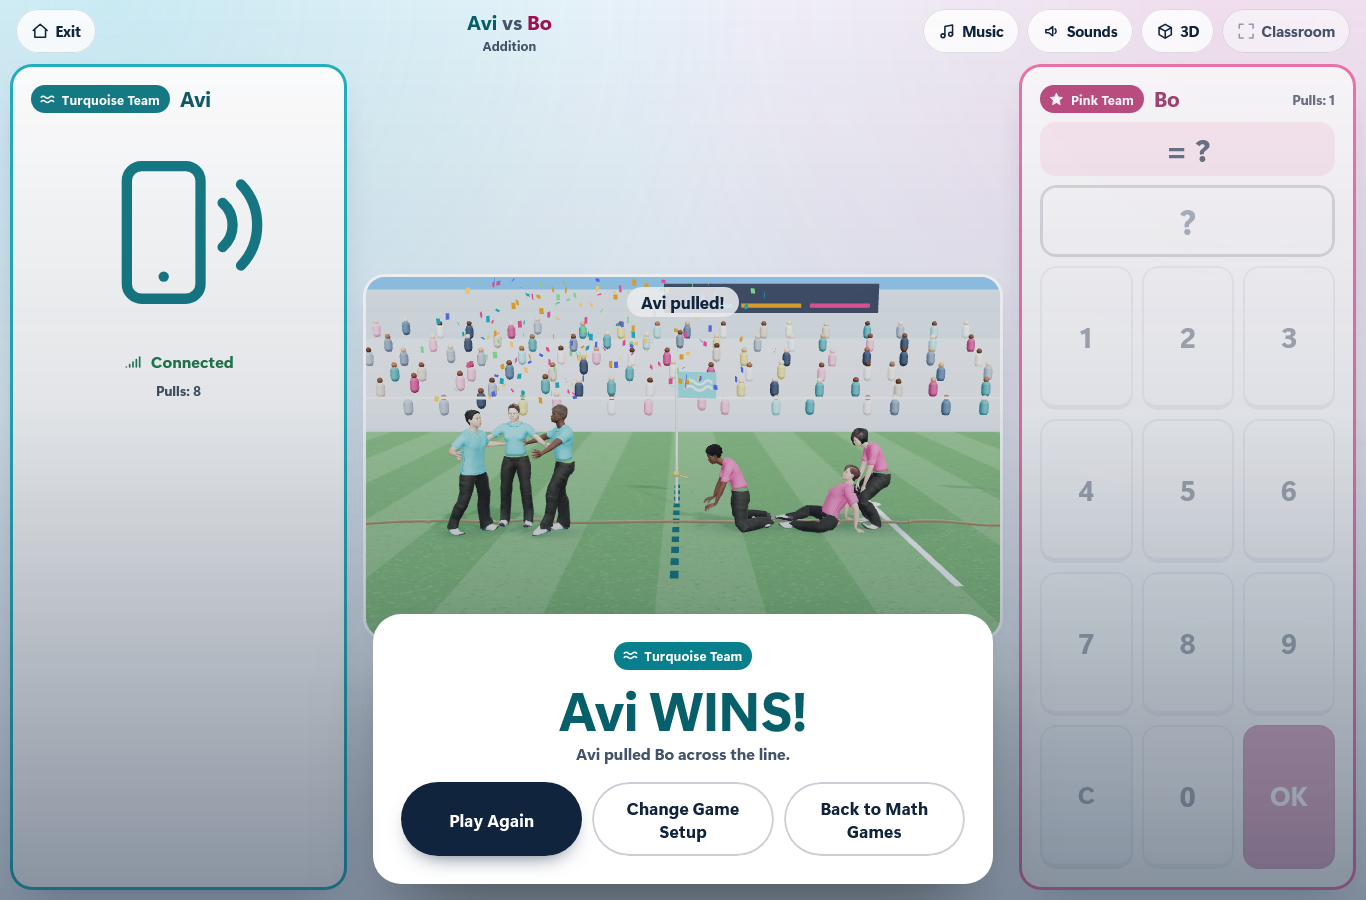
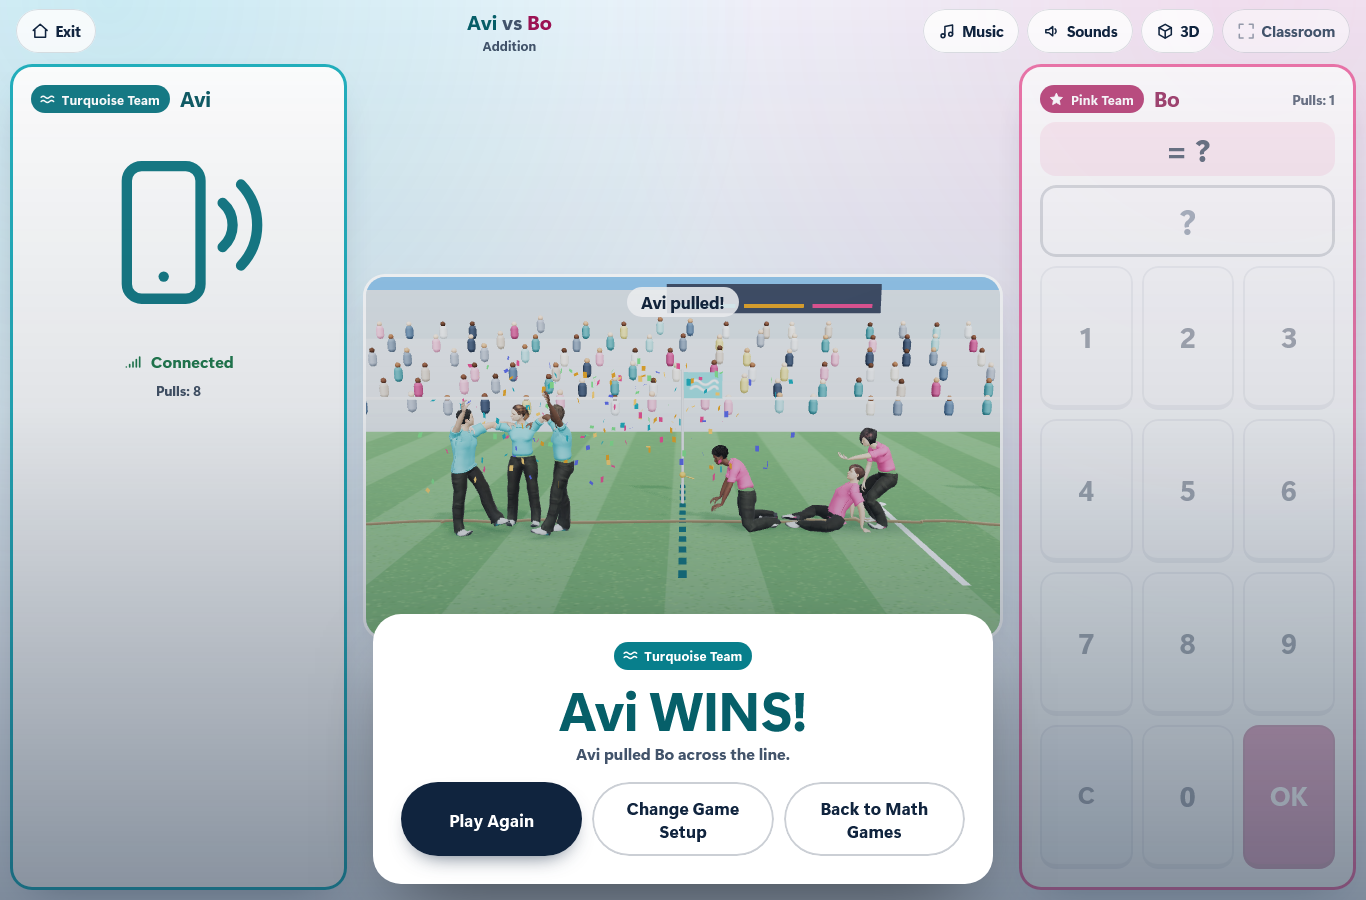
docs(games): Math Tug of War 3D grip and sneakers hotfix: final hosted results; the iPad pull check waits for the settled rope

Changed region(s): [[0.2767, 0.3111, 0.7379, 0.6533]]

diff --git a/docs/math-tug-of-war-3d-v1.md b/docs/math-tug-of-war-3d-v1.md
@@ -104,6 +104,7 @@ The owner's live inspection found the hands not convincingly holding the rope an
 | Hosted 3D review on the preview (`dpl_GczU1z4ongmBTwzzcN6gT1aLuGcW`, commit `c5d0981`) | **39/39**: runtime hash `5dbc8ed1…`, byte-identical models (now the sneakers) and modules, CSP, 3D on hardware GL, classic fallbacks, hands on the rope with zero reach miss on desktop, phones, Smart Board, iPad WebKit and WebKit desktop, Online Match with 3D on both clients |
 | Final gates on the final files (`af3524a`), run one at a time | unit 96/96; `chromium-3d` 12/12; `chromium-3d-mobile` 10 passed, 2 skipped; `webkit-3d` alone 12/12; Online Match suites 13 passed, 1 skipped (classic 12 + 3D-on-both-clients 1); web unit 888 passed, 1 skipped; build and security gates passed |
 | Hosted reviews on the final preview `dpl_AXKwXcVdpcSTK8iSTPS3EkxfZk39` (`https://mathnexa-platform-staging-mtlifu6rr-bright-path-ed-tech.vercel.app`, commit `af3524a`, runtime hash `17d63491…`), machine idle | **3D 39/39** (hands on the rope with zero reach miss on every device; models, sneaker textures and modules byte-identical to source) and **classic 99/99** |
+| Hosted reviews on the preview to test, `dpl_4dQGvnGChMooB2W2ZywcR8Kp3SSv` (`https://mathnexa-platform-staging-pdl42gplj-bright-path-ed-tech.vercel.app`, commit `8ed4abc`: the same runtime as `af3524a` plus one line in the review-only close-up camera) | **3D 39/39**; classic 98/99 with the WebKit iPad pull read 150 ms after the tap (a fixed wait in the review script, now replaced by the settled-rope wait its sibling checks use); rerun alone: **99/99** |
 | Performance, same machine back to back (1366×768, medium tier, Chromium with the GPU) | released build 8.5–8.6 ms per frame (render 6.7–7.1); hotfix code with the released models 9.3; final hotfix 8.9–9.0 ms (render 6.6–7.1), 364 k triangles including the shadow pass vs 292 k. About +0.4 ms per frame (+5 %); the hosted review's 10–15 ms figures earlier in the session were taken while the local full suite ran on the same machine. Posing cost in node for six pullers: 0.31 → 0.53 ms |
 | Hosted classic review on the first preview (`c5d0981`) | first run (concurrent with the local full suite) 89/92: the three "simultaneous answers" online checks, the WebKit guest's submit not counted; the online code is byte-identical to `8046e67`, which passed 99/99 twice. Rerun alone: 97/99 (the same online check, the WebKit guest's simultaneous submit arriving after the script's 2.5 s read, while the local reruns were still running); on the final preview with the machine idle: **99/99** |
 
